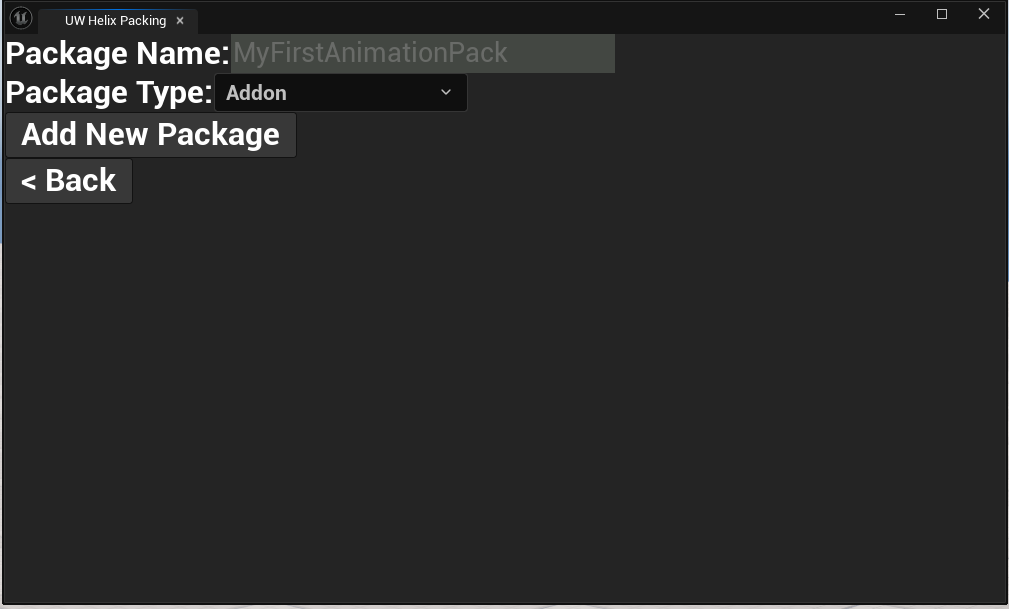
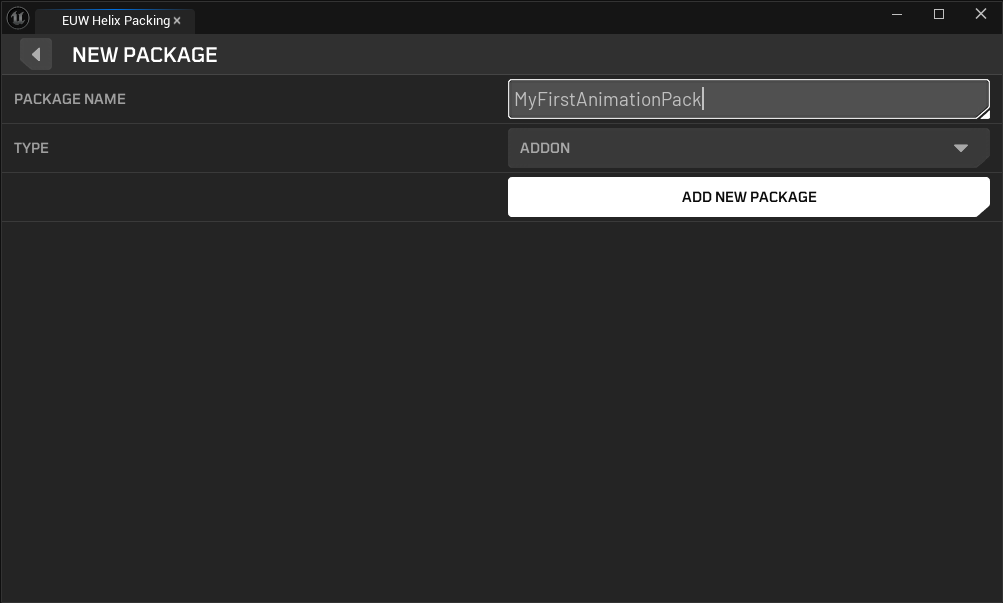
Revamp anim tutorial

diff --git a/docs/tutorials/custom_animations.md b/docs/tutorials/custom_animations.md
@@ -22,85 +22,92 @@ First, you need to get your animation assets from the marketplace and add them t
 
 ## 2. Setting Up Your HELIX Addon Package
 
-Next, you will use the **HELIX Packaging Tool** to create a dedicated folder for your new addon.
-
-1. Launch the **Creator Kit** editor.
-2. Access the **HELIX Packaging Tool** from the main toolbar.
-3. In the packaging tool window, click **New Package**.
-
-    ![image.png](CustomAnimImages/5.png)
-
-4. Enter a unique **Package Name** (e.g., `MyFirstAnimationPack`).
-5. Select **Addon** as the **Package Type**.
-6. Click **Add New Package**. This action creates a dedicated folder for your assets (e.g., **Content/Addon_MyFirstAnimationPack**).
-
-    ![image.png](CustomAnimImages/6.png)
-
-7. In the **Content Browser**, locate the main folder for the animation assets you imported in Section 1.
-
-    ![image.png](CustomAnimImages/3.png)
-
----
-
-## 3. Adapting Animations For The HELIX Rig
-
-This is the most critical step. The method you use depends on the skeleton the asset pack was built for. Follow the section that matches your asset pack.
+Next, you will use the **HELIX Packaging Tool** to prepare your package folder.
 
 ### Option A: For UE5 Rig-Based Packs (Replace Skeleton)
 
 This is the simpler method, used for modern packs that are already compatible with the `UE5` skeleton.
 
-1. Select all the **Animation Sequence** assets you wish to package.
-2. Right-click the selection and choose **Replace Skeleton...**
+1. Launch the **Creator Kit** editor.
+
+2. Find your imported Fab asset folder and right click to it. Select **Convert to Package (Addon)**. This will make it possible to directly cook this folder with HELIX Packaging Tool.
+
+    ![image.png](CustomAnimImages/u_1.png)
+
+/// info | Note
+Alternatively, you can also create a new package folder from HELIX Packaging Tool and move your assets or import source files into this created folder.
+///
+
+3. If your folder has any asset type unrelated to animations (textures, materials, levels, skeletal meshes etc.), remove them to reduce clutter.
+
+4. Select all the **Animation Sequence** assets in your package folder.
+
+5. Right-click the selection and choose **Replace Skeleton...**
 
     ![image.png](CustomAnimImages/4.png)
 
-3. In the dialog, select **SK_Unified** from the list. This is the primary skeleton used by default for HELIX characters. Click **OK**.
+6. In the dialog, select **SK_Unified** from the list. This is the primary skeleton used by default for HELIX characters. Click **OK**.
 
     ![image.png](CustomAnimImages/4_1.png)
 
-4. Verify that the selected animations now reference the **SK_Unified** skeleton. Save all modified assets (`Ctrl+ShiftS`).
+7. Verify that the selected animations now reference the **SK_Unified** skeleton. Save all modified assets (`Ctrl+ShiftS`).
 
     ![image.png](CustomAnimImages/9.png)
-
-5. In the **Content Browser**, move all the modified animation assets into your package folder (e.g., **Content/Addon_MyFirstAnimationPack**).
-
-    ![image.png](CustomAnimImages/8.png)
 
 ### Option B: For `UE4` or Custom Rig-Based Packs (Retarget Animation)
 
 This method is for older packs built for the `UE4` Mannequin or packs using a custom rig. It uses the **IK Retargeting** system to create new, compatible animations.
 
-1. Select all the **Animation Sequence** assets you wish to package.
-2. Right-click the selection and choose **Retarget Animation Assets** -> **Duplicate and Retarget Animation Assets**.
+1. Launch the **Creator Kit** editor.
+
+2. Access the **HELIX Packaging Tool** from the main toolbar.
+
+3. In the packaging tool window, click **New Package**.
+
+    ![image.png](CustomAnimImages/5.png)
+
+4. Enter a unique **Package Name** (e.g., `MyFirstAnimationPack`) and select **Addon** as the **Package Type**.
+
+5. Click **Add New Package**. This action creates a dedicated folder for your assets (e.g., **Plugins/Addon_MyFirstAnimationPack**).
+
+    ![image.png](CustomAnimImages/6.png)
+
+6. In the **Content Browser**, locate the main folder for the animation assets you imported in Section 1.
+
+    ![image.png](CustomAnimImages/u_5.png)
+
+
+8. Select all the **Animation Sequence** assets in your package folder, right-click the selection, and choose **Retarget Animation Assets** -> **Duplicate and Retarget Animation Assets**.
 
     ![image.png](CustomAnimImages/4_2.png)
 
-3. The Animation Retargeting window will open.
-4. For **Source Skeleton**, select the original skeleton from the downloaded pack (e.g., **SK_Mannequin**).
+9. The Animation Retargeting window will open. For **Source Skeleton**, select the original skeleton from the downloaded pack (e.g., **SK_Mannequin**).
 
     ![image.png](CustomAnimImages/4_3.png)
 
-5. For **Target Skeleton**, choose **SKM_Manny** located in **Content/Characters/Heroes/Unified/**.
-
-    > **Note:** Your project may contain multiple assets named **SKM_Manny**. Ensure you select the one from the **Unified** folder, as shown in the screenshot. This is the mesh associated with our **SK_Unified** skeleton.
+10. For **Target Skeleton**, choose **SKM_Manny** located in **Content/Characters/Heroes/Unified** folder.
 
     ![image.png](CustomAnimImages/4_4.png)
 
-7. You can typically leave **Generate Auto Retargeter** checked to automatically map bones. For advanced use cases where the automatic mapping is incorrect, you can uncheck this and provide your own custom **IK Rig** and **IK Retargeter** assets.
-8. Review the list of animations to be generated. You can uncheck any you don't need. Click **Export Animations** button.
+/// info | Note
+Your project may contain multiple assets named **SKM_Manny**. Ensure you select the one from the **Unified** folder, as shown in the screenshot. This is the mesh associated with our **SK_Unified** skeleton.
+///
+
+11. You can typically leave **Generate Auto Retargeter** checked to automatically map bones. For advanced use cases where the automatic mapping is incorrect, you can uncheck this and provide your own custom **IK Rig** and **IK Retargeter** assets.
+
+12. Review the list of animations to be generated. You can uncheck any you don't need. Click **Export Animations** button.
 
     ![image.png](CustomAnimImages/4_5.png)
 
-9. On the new window, select your helix package folder (e.g., **Content/Addon_MyFirstAnimationPack**) as the destination. Click **Export**.
+13. On the new window, select your helix package folder (e.g., **Plugins/Addon_MyFirstAnimationPack**) as the destination. Click **Export**.
 
     ![image.png](CustomAnimImages/4_6.png)
 
-10. Click **Export** button again in next window.
+14. Click **Export** button again in next window.
 
     ![image.png](CustomAnimImages/4_7.png)
 
-11. The engine will now process and retarget all selected animations, creating new copies in your package folder that are compatible with the HELIX skeleton.
+15. The engine will now process and retarget all selected animations, creating new copies in your package folder that are compatible with the HELIX skeleton.
 
 ---
 
@@ -108,13 +115,16 @@ This method is for older packs built for the `UE4` Mannequin or packs using a cu
 
 With your animations successfully adapted and moved to your package folder, you can make final adjustments and "cook" the final `.pak` file.
 
-1. Open the animation assets inside your package folder (e.g., **Content/Addon_MyFirstAnimationPack**).
+1. Open the animation assets inside your package folder (e.g., **Plugins/Addon_MyFirstAnimationPack**).
+
 2. Perform any necessary final adjustments. This is a good time to:
     - Enable/Disable **Root Motion**.
     - Add **Animation Notifies** (AnimNotifies) for events like footsteps or impacts.
     - Add or modify **Animation Curves**.
     - Adjust play rate or other settings.
+
 3. Return to the **HELIX Packaging Tool** window.
+
 4. With your package selected, click the **Package** button. This process will cook your assets into the final `.pak` file format required by the **Creator Hub**. This may take some time.
 
     ![image.png](CustomAnimImages/7.png)
@@ -134,6 +144,7 @@ It's also possible to download animations from [Mixamo.com](http://www.mixamo.co
     ![image.png](CustomAnimImages/11.png)
 
 2. Click **Download** button after tweaking your animation.
+
 3. On the new window, select options as shown on the image below and click **Download** button. This will download an `.fbx` file, ready to be imported into Creator Kit.
 
     ![image.png](CustomAnimImages/12.png)
